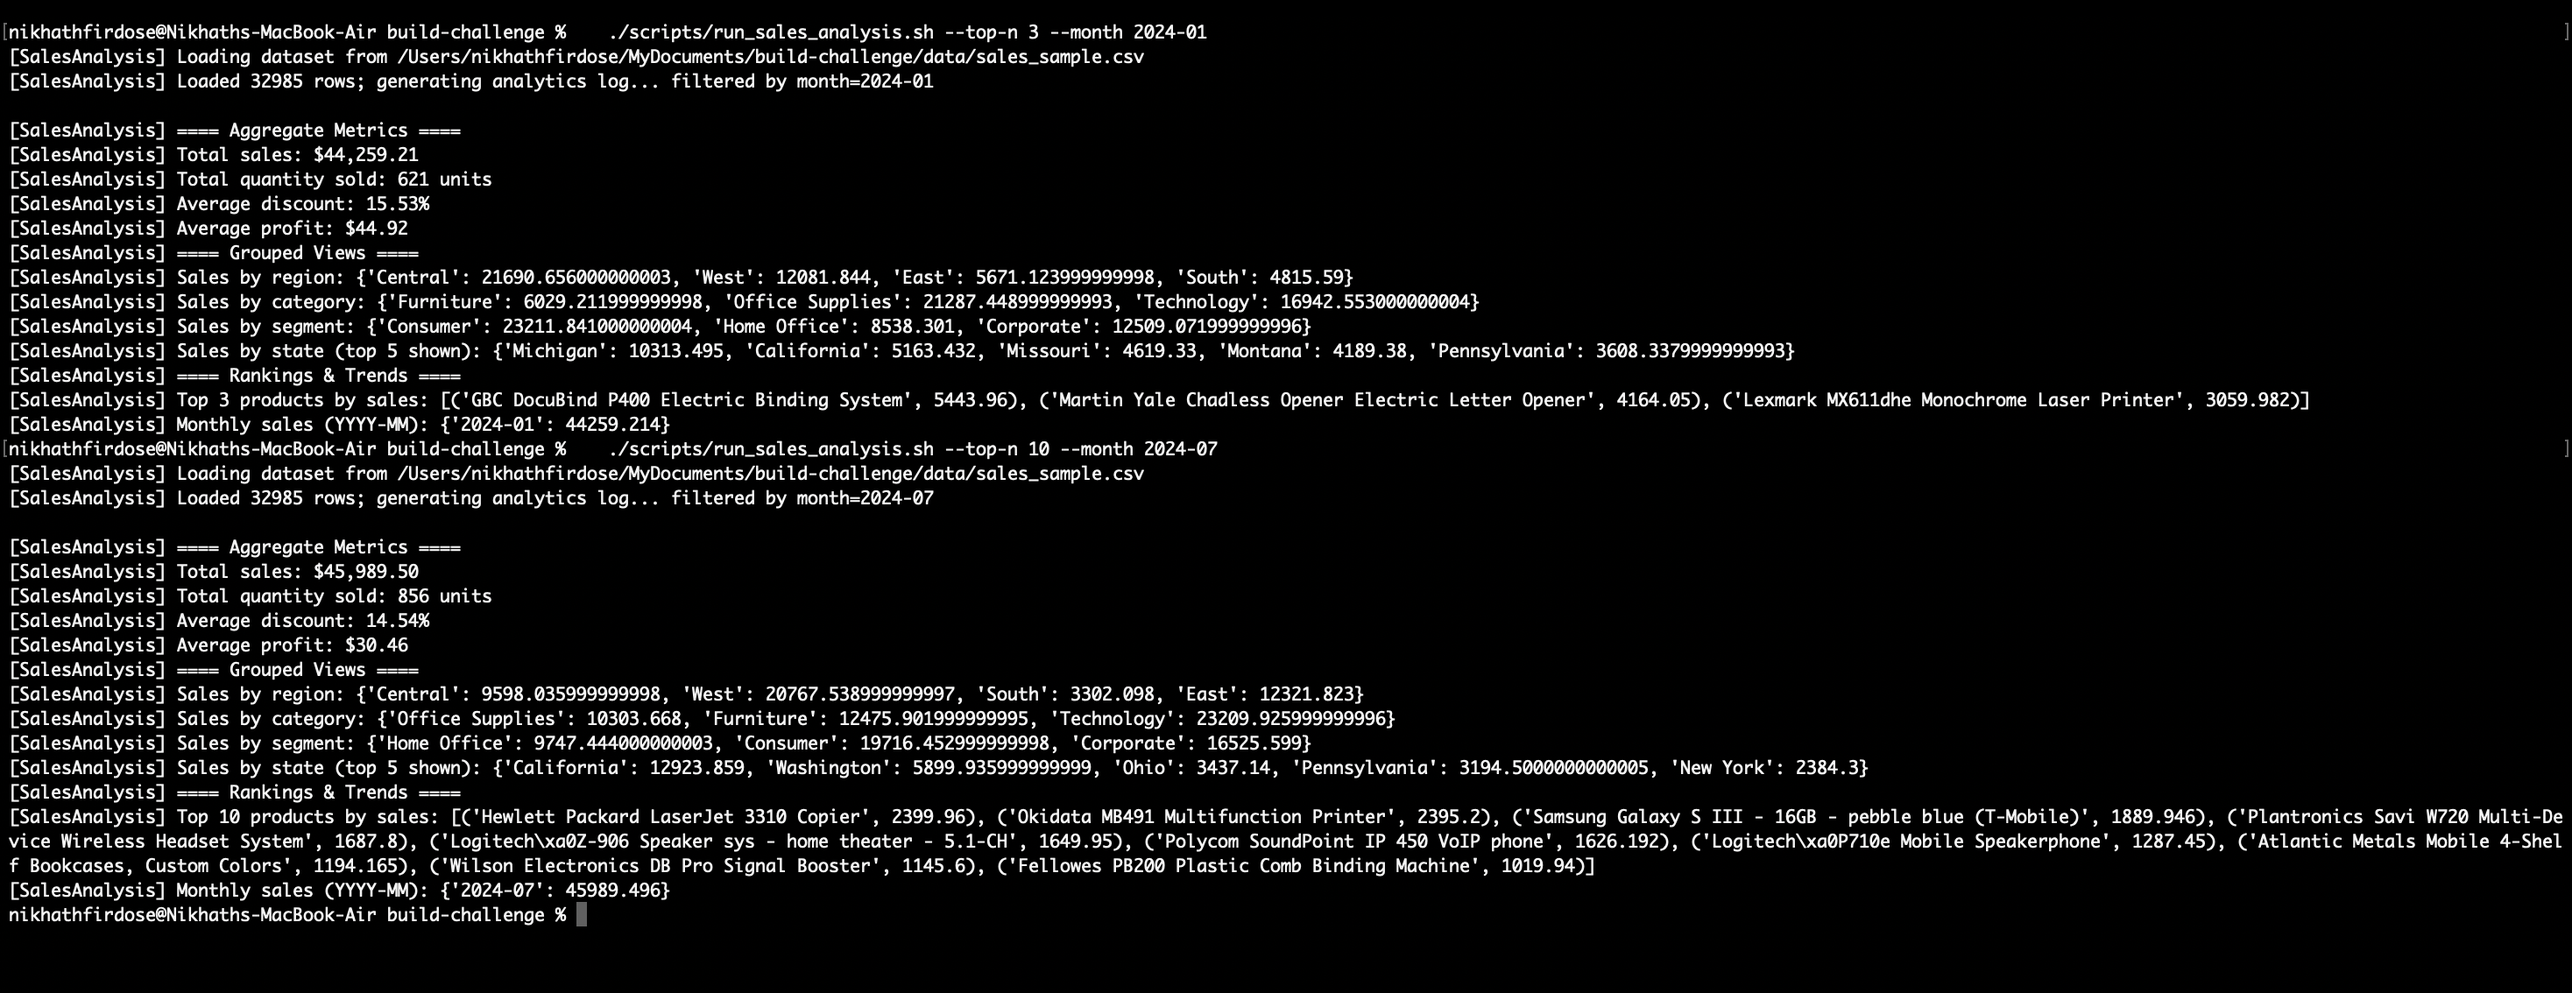
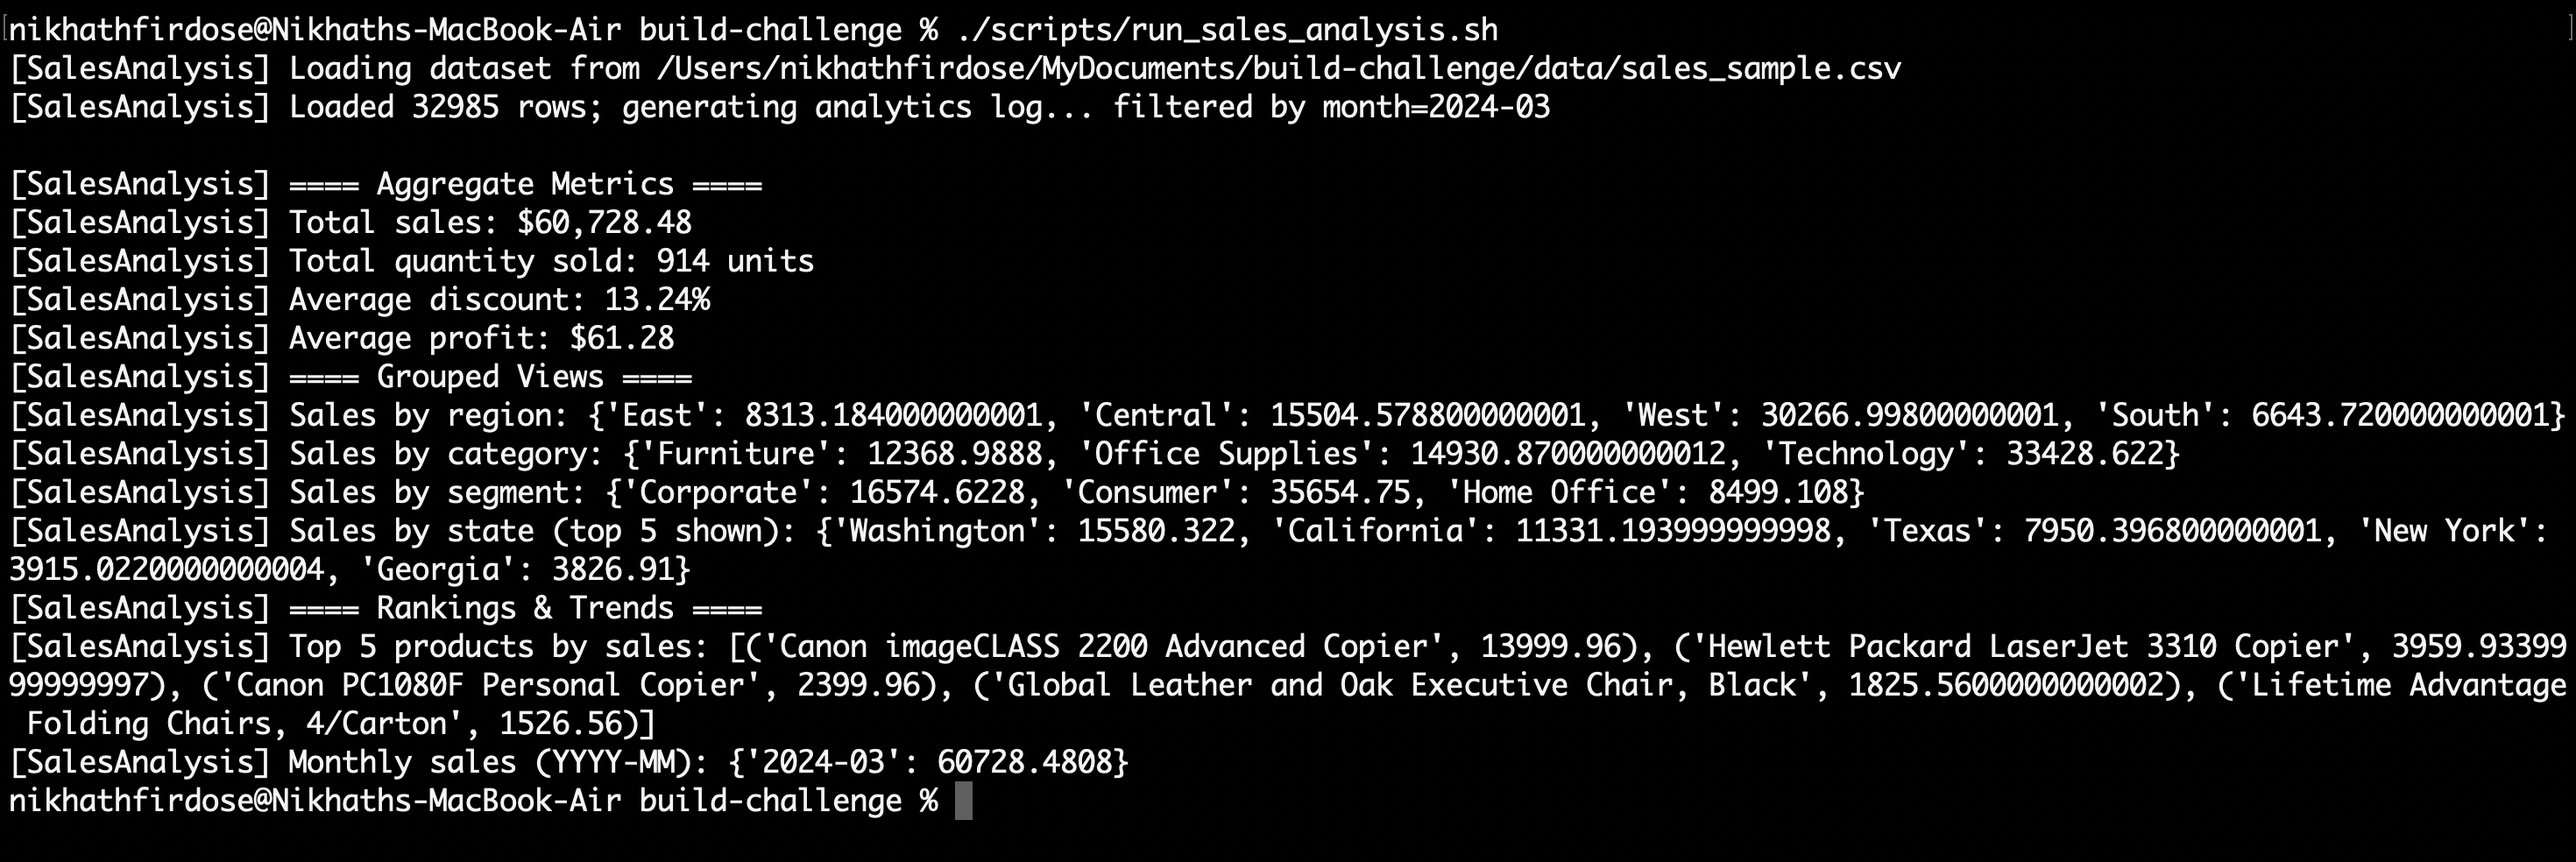
run scripts edited and README  updated

Changed region(s): [[0.0, 0.0, 1.0, 0.9451]]

diff --git a/README.md b/README.md
@@ -68,7 +68,13 @@ Optional flags let you explore different workloads without editing code:
 
 ```bash
 python -m src.producer_consumer.runner --items 30 --buffer-capacity 6 --producers 2 --consumers 3 --delay 0.0
-# or use the helper script
+```
+
+Helper script (runs with a baked-in 50-item scenario if no args are provided):
+
+```bash
+./scripts/run_producer_consumer.sh
+# or pass your own flags:
 ./scripts/run_producer_consumer.sh --items 30 --buffer-capacity 6 --producers 2 --consumers 3 --delay 0.0
 ```
 
@@ -82,7 +88,13 @@ Optional flags let you tailor the analytics output:
 
 ```bash
 python -m src.sales_analysis.runner --top-n 3 --month 2024-01
-# or use the helper script
+```
+
+Helper script (runs a March 2024 + top 5 snapshot if no args are provided):
+
+```bash
+./scripts/run_sales_analysis.sh
+# or pass your own flags:
 ./scripts/run_sales_analysis.sh --top-n 3 --month 2024-01
 ```
 
@@ -152,40 +164,7 @@ Analytics exposed via `src/sales_analysis/analytics.py`:
 
 All functions accept iterables of `SaleRecord` and return new values without side effects.
 
-## Sample Output
-
-Producer–consumer log:
-
-```
-[ProducerConsumer] Demo configuration -> 8 items, buffer capacity=4
-[ProducerConsumer] Launching producer/consumer threads...
-[ProducerConsumer] Consumer received item='A101' (buffer size 3)
-...
-[ProducerConsumer] Produced 8 items; destination now has 8 items
-[ProducerConsumer] Consumed sequence: ['A101', 'A102', 'A103', 'B201', 'B202', 'C301', 'C302', 'C303']
-```
-
-Sales analysis log:
-
-```
-[SalesAnalysis] Loading dataset from /path/to/data/sales_sample.csv
-[SalesAnalysis] Loaded 9,994 rows; generating analytics log...
-[SalesAnalysis] ==== Aggregate Metrics ====
-[SalesAnalysis] Total sales: $1,674,321.45
-[SalesAnalysis] Total quantity sold: 9,842 units
-[SalesAnalysis] Average discount: 24.12%
-[SalesAnalysis] Average profit: $68.55
-[SalesAnalysis] ==== Grouped Views ====
-[SalesAnalysis] Sales by region: {'Central': 456123.42, 'East': 398221.55, 'South': 375110.87, 'West': 444865.61}
-...
-[SalesAnalysis] ==== Rankings & Trends ====
-[SalesAnalysis] Top 5 products by sales: [('Apple iPhone 5C', 699.93), ('Global Deluxe High-Back Manager's Chair', 915.14), ...]
-[SalesAnalysis] Monthly sales (YYYY-MM): {'2019-01': 540123.12, '2019-02': 556444.01, '2019-03': 577754.32}
-```
-
-(Exact figures depend on `data/sales_sample.csv`.)
-
-## Screenshots
+## Sample Output Screenshots
 
 Visual proof of the tested runs is available under `images/`:
 
